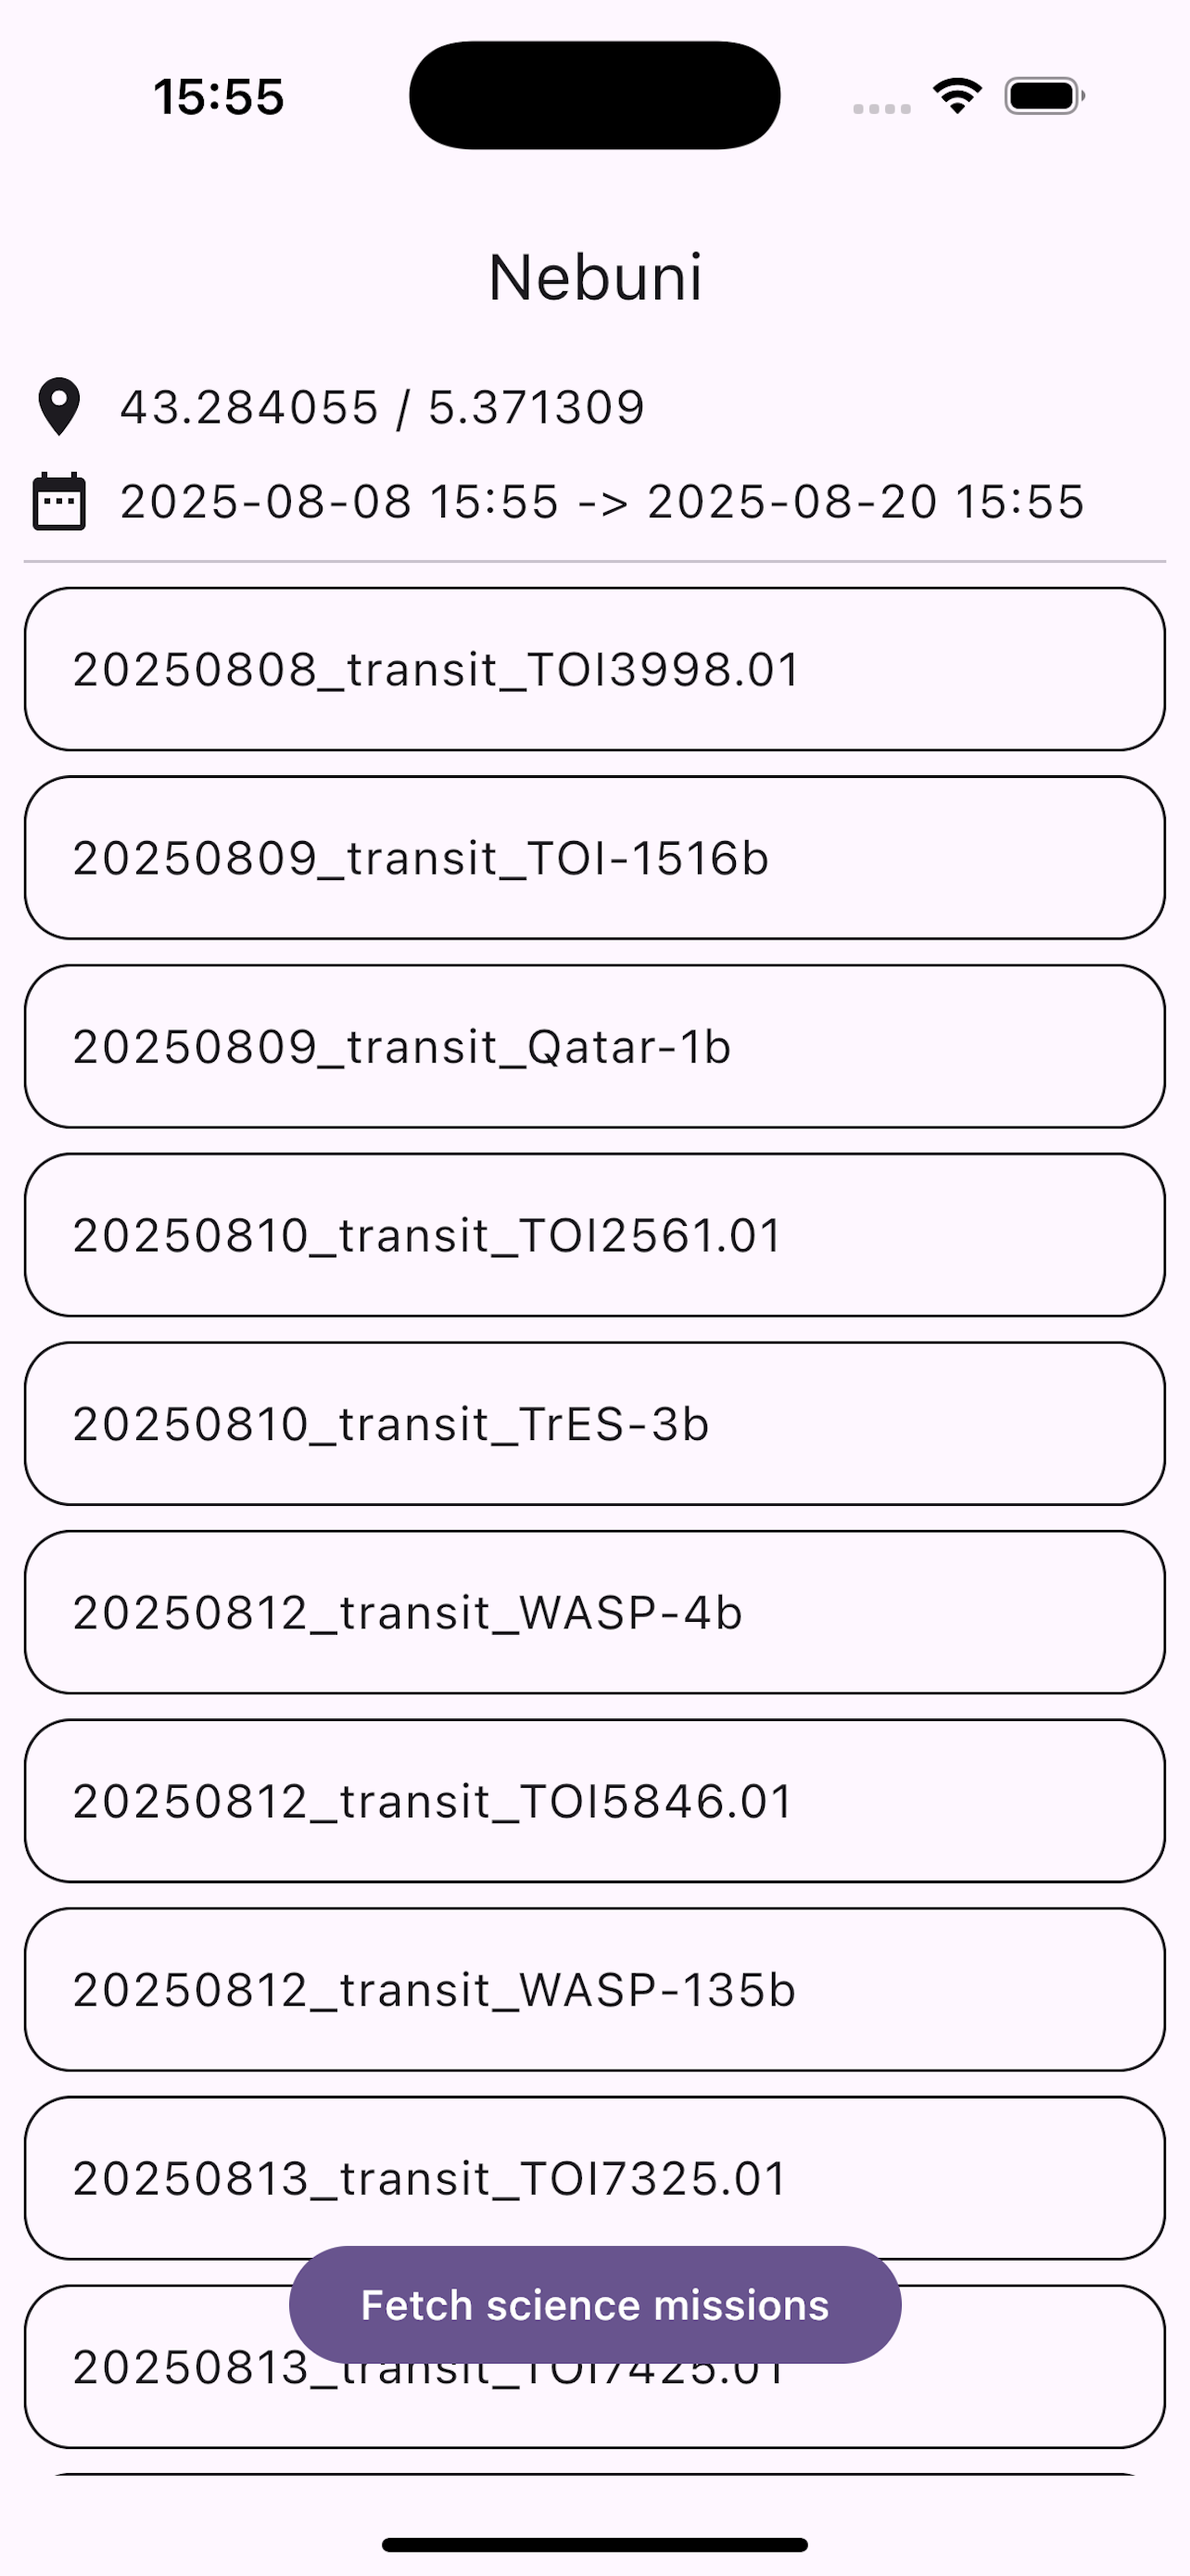
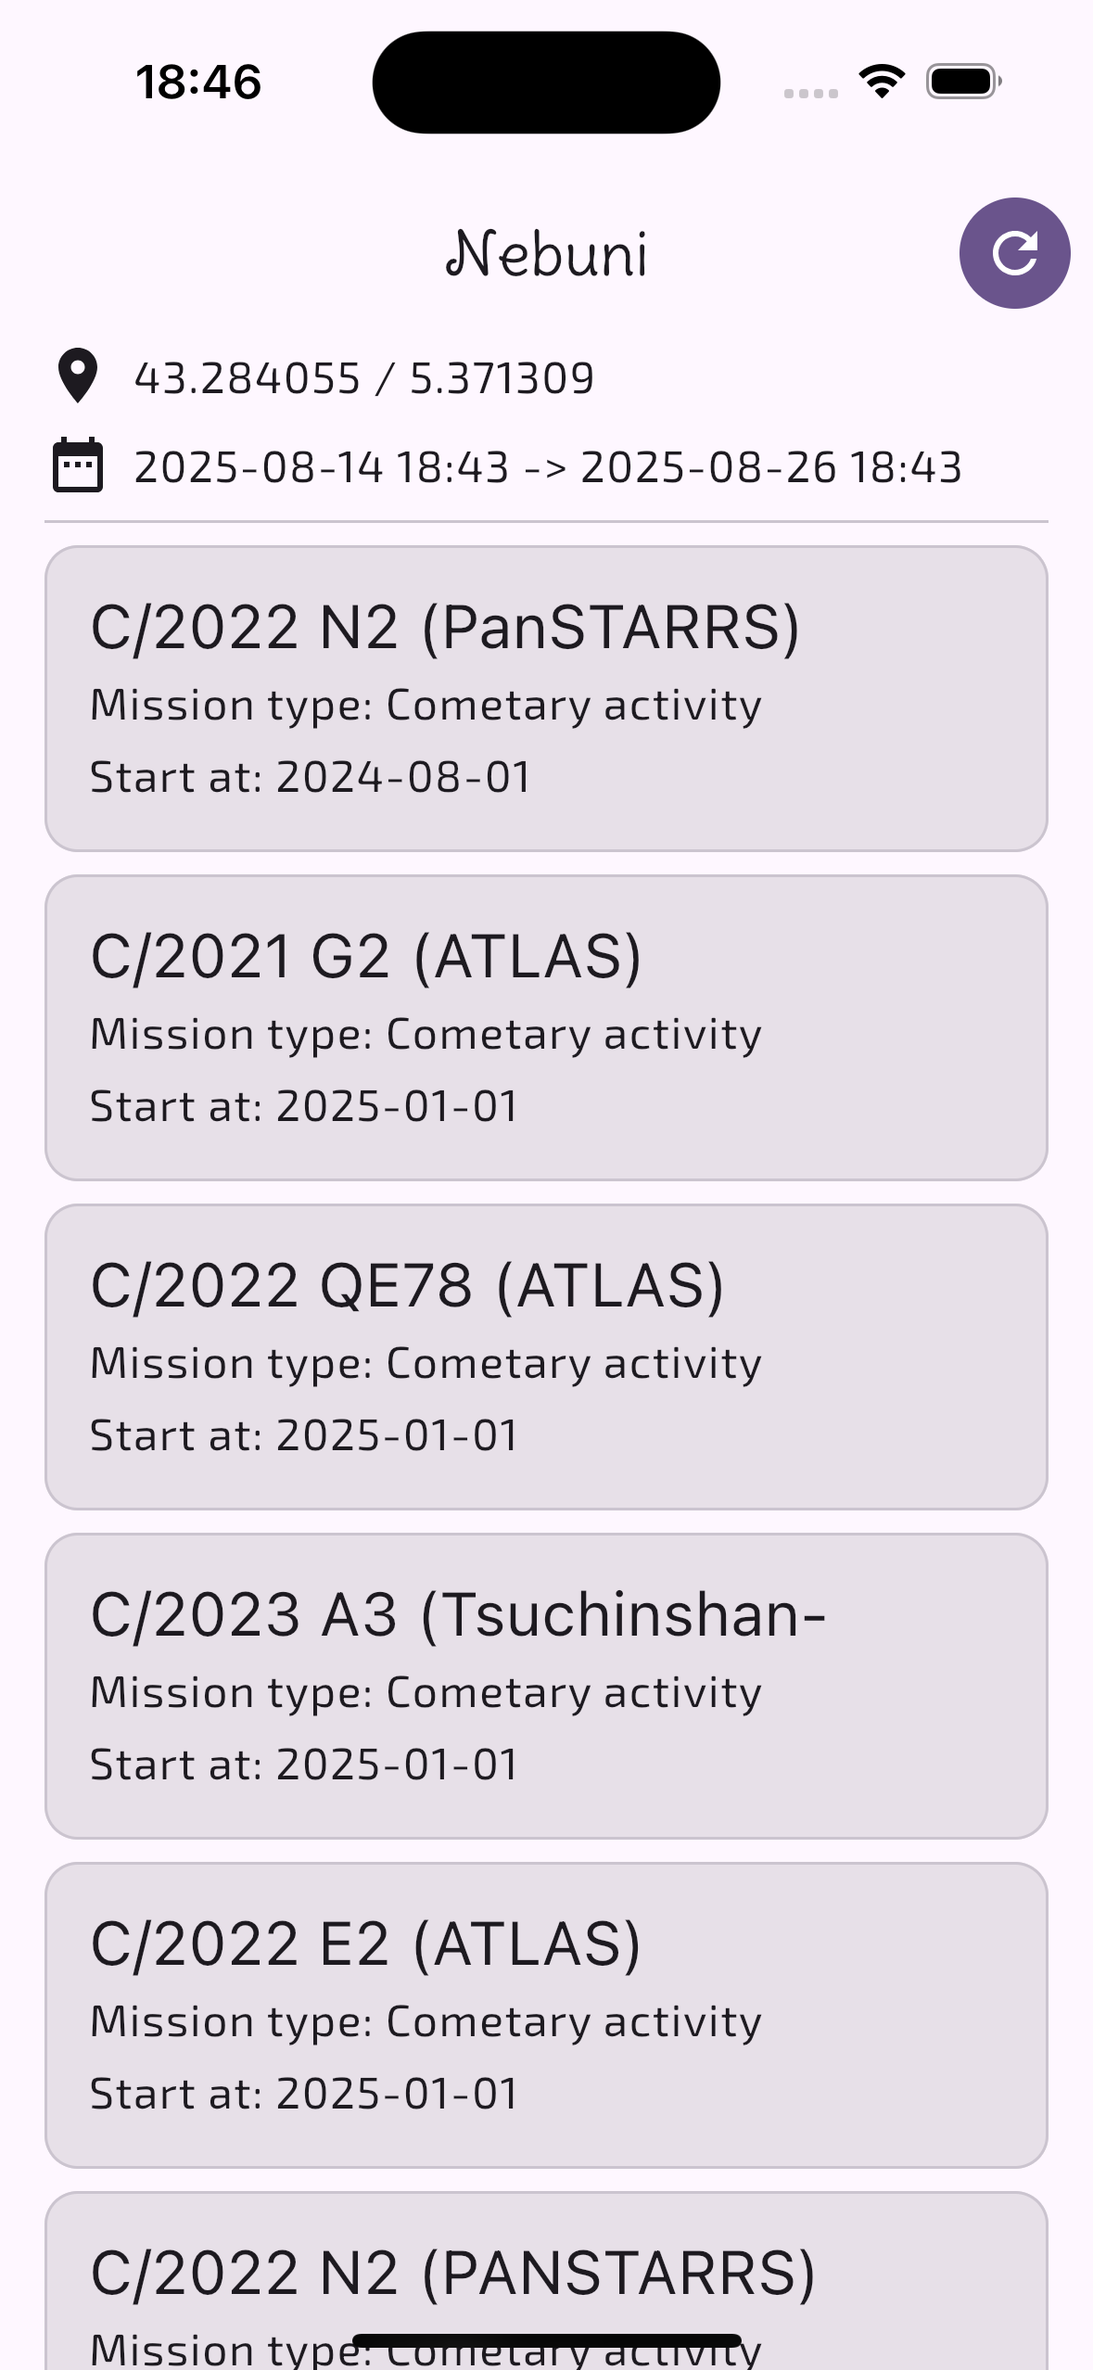
Bump to version 7 and update screenshots.

diff --git a/README.md b/README.md
@@ -48,6 +48,15 @@ The first feature will be to fetch science missions, storing them locally for of
   </a>
 </p>
 
+<p align="center">
+  <a href="misc/pictures/screenshots/iPadOS/screenshot_02.png">
+    <img src="misc/pictures/screenshots/iPadOS/screenshot_02.png" height="250" alt="Nebuni Screenshot iPad 2"/>
+  </a>
+  <a href="misc/pictures/screenshots/iPadOS/screenshot_03.png">
+    <img src="misc/pictures/screenshots/iPadOS/screenshot_03.png" height="250" alt="Nebuni Screenshot iPad 3"/>
+  </a>
+</p>
+
 # 🚀 Release
 Nebuni will be released on Apple's App Store and Google Play Store when the real v1 will be reach.
 
